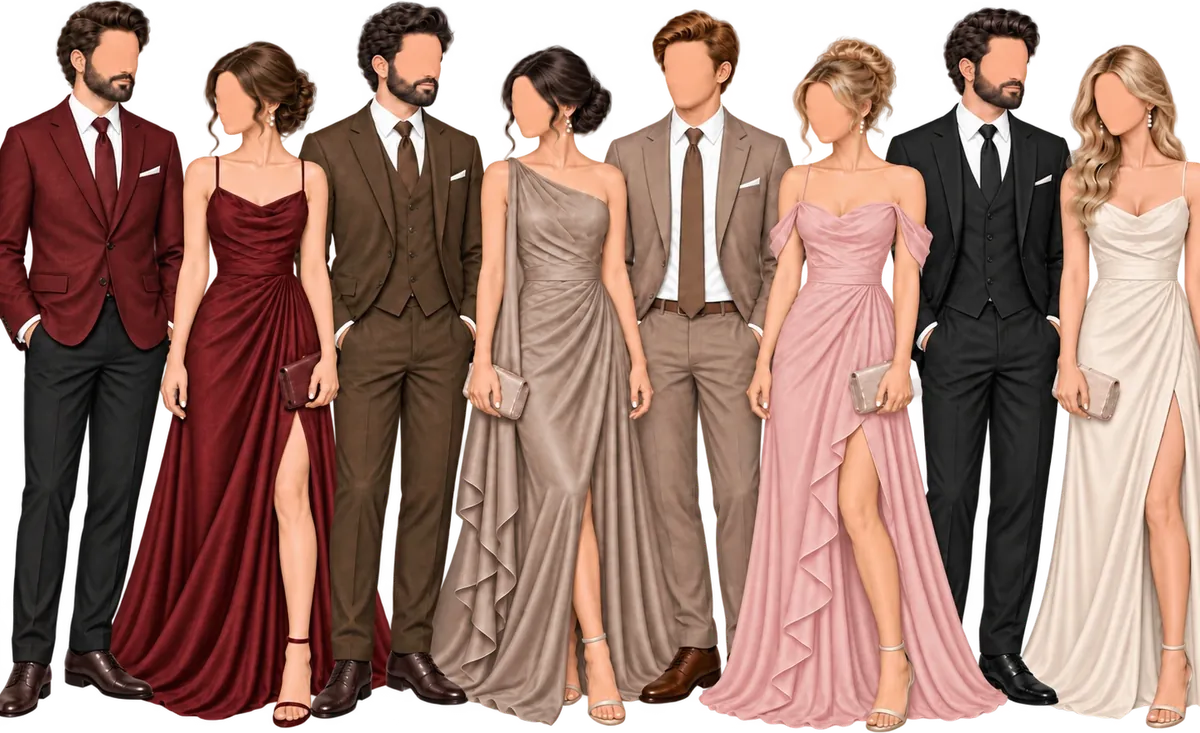
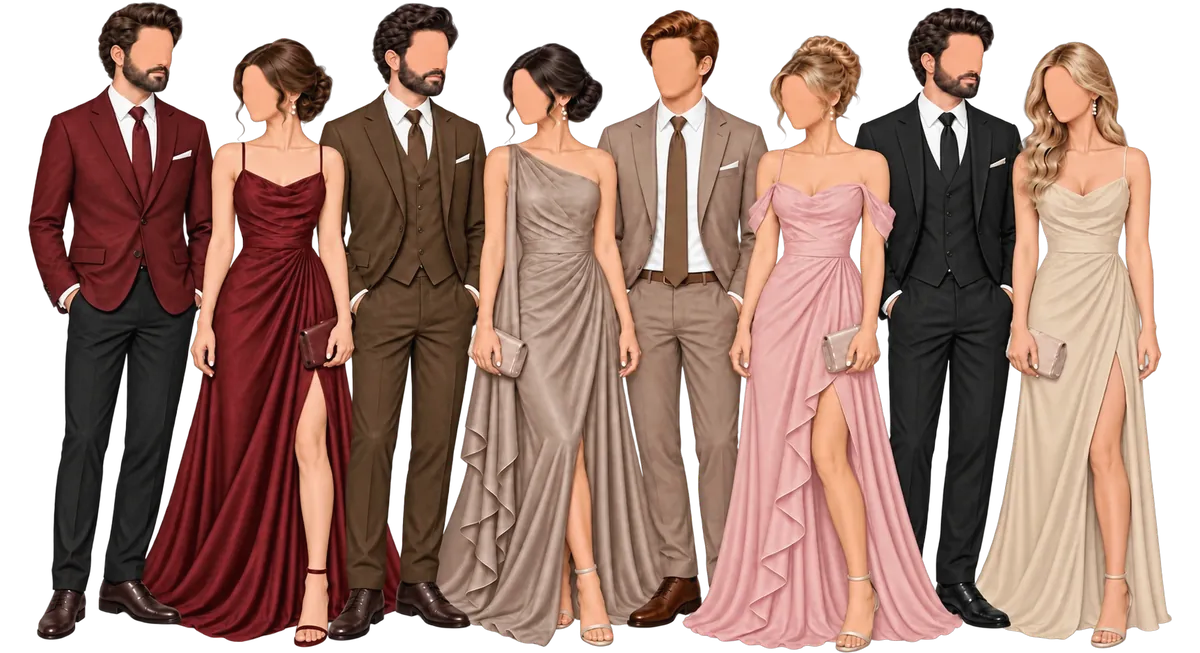
fdfs

diff --git a/src/app/couple/couple.css b/src/app/couple/couple.css
@@ -50,7 +50,11 @@
   position: relative;
   width: min(100%, 400px);
   margin: clamp(46px, 11vw, 60px) auto 0;
-  padding: 9% 9% 13%;
+  /* Asymmetric on purpose: less room on the left, more on the right, so the bigger photo (which sits flush against
+     its own left edge, see .polaroid-a) can start further left - closer to Anna's own side of it - while still
+     landing fully inside this padding, never past the frame drawn by the box-shadow below. The extra room freed up
+     on the right is exactly where the smaller photo sits anyway. */
+  padding: 9% 15% 13% 3%;
   background: linear-gradient(175deg, #fdf7ee 0%, #f6ead9 100%);
   /* a thin double line, like a picture frame's mat, drawn without extra elements */
   box-shadow:
@@ -71,11 +75,10 @@
 .polaroid-a {
   position: relative;
   z-index: 0;
-  width: 84%;
-  /* pushed left past the board's own left padding (not just flush with it): Anna, on the right side of this photo,
-     otherwise sits almost exactly where the smaller photo taped over the corner covers it - shifting the whole
-     photo further left moves her out from under that overlap instead. */
-  margin-inline: -15% auto;
+  width: 78%;
+  /* flush against the board's own (asymmetric, see .board) left padding - the most room this photo can have on that
+     side while still landing fully inside the frame, not past it. */
+  margin-inline: 0 auto;
   padding: 3.6% 3.6% 12%;
   transform: rotate(-2.5deg);
 }
@@ -83,9 +86,13 @@
 .polaroid-b {
   position: absolute;
   z-index: 1;
-  width: 52%;
-  right: -2%;
-  bottom: -9%;
+  /* right/bottom are a real inset, not just past-zero: this photo is TALLER than it is wide, so its own 5deg
+     rotation swings its corners out noticeably further than its unrotated box would suggest - a small inset here
+     still let a rotated corner cross the frame. Checked against the actual rendered (rotated) bounding box in the
+     browser, not just eyeballed from these numbers. */
+  width: 46%;
+  right: 3%;
+  bottom: 8%;
   padding: 3.2% 3.2% 11%;
   transform: rotate(5deg);
 }

diff --git a/src/app/dress-code/dress-code.ts b/src/app/dress-code/dress-code.ts
@@ -9,10 +9,13 @@ interface Shade {
 
 /**
  * The palette. The first four are the user's own circles (their colours were read from the picture they sent); black
- * and cream were added at their request. The cream one is `--paper` (styles.css) - the site's ivory tone, not `--bg`
- * (the page background itself, paler still): at --bg it read as plain white once rendered as a small circle, even
- * with its own highlight cut back below (see .shade:last-child in dress-code.css) - --paper is visibly warmer/darker
- * and reads unmistakably as cream instead. Change colours and names here.
+ * and cream were added at their request. Cream (`#e8cbb1`) is sampled directly from the last woman's actual dress in
+ * source-people.webp (see the bottom of tools/dresscode-assets/make_assets.py) - it is NOT recoloured to match this
+ * swatch (an earlier version did that backwards: picked a colour first, then multiply-blended the real photo towards
+ * it, which just made the dress in the picture look like a different, wrong colour from the swatch next to it). If
+ * source-people.webp is ever replaced, re-run make_assets.py and paste its printed "cream swatch colour" in here.
+ * Site tokens (--bg/--paper) were tried first too and both read as pale grey once rendered this small. Change
+ * colours and names here.
  */
 const SHADES: Shade[] = [
   { name: 'Бордо', color: '#540f08' },
@@ -20,7 +23,7 @@ const SHADES: Shade[] = [
   { name: 'Мокко', color: '#8d6752' },
   { name: 'Пудровый', color: '#cf9f9d' },
   { name: 'Чёрный', color: '#161312' },
-  { name: 'Кремовый', color: 'var(--paper)' },
+  { name: 'Кремовый', color: '#e8cbb1' },
 ];
 
 /**

diff --git a/src/app/dress-code/dress-code.spec.ts b/src/app/dress-code/dress-code.spec.ts
@@ -40,15 +40,14 @@ describe('DressCode', () => {
       { name: 'Мокко', color: '#8d6752' },
       { name: 'Пудровый', color: '#cf9f9d' },
       { name: 'Чёрный', color: '#161312' },
-      { name: 'Кремовый', color: 'var(--paper)' },
+      { name: 'Кремовый', color: '#e8cbb1' },
     ]);
   });
 
-  it('makes the last circle the site\'s ivory tone, not plain white', () => {
+  it('makes the last circle exactly the last woman\'s real dress colour, not an invented one', () => {
     const el: HTMLElement = create().nativeElement;
     const last = [...el.querySelectorAll<HTMLElement>('.dot')].pop()!;
-    // --paper in src/styles.css
-    expect(last.style.getPropertyValue('--c')).toBe('var(--paper)');
+    expect(last.style.getPropertyValue('--c')).toBe('#e8cbb1');
   });
 
   it('names the palette in words for screen readers, and hides the circles themselves', () => {

diff --git a/src/app/dress-code/dress-code.html b/src/app/dress-code/dress-code.html
@@ -19,8 +19,8 @@
         class="crowd"
         src="media/dress-people.webp"
         width="1200"
-        height="733"
-        alt="Гости в нарядах бордового, шоколадного, цвета мокко, пудрового, чёрного и молочного оттенков"
+        height="653"
+        alt="Гости в нарядах бордового, шоколадного, цвета мокко, пудрового, чёрного и кремового оттенков"
         decoding="async"
         loading="lazy"
       />

diff --git a/tools/dresscode-assets/make_assets.py b/tools/dresscode-assets/make_assets.py
@@ -1,61 +1,44 @@
 """Builds the picture of the dress-code section from the source picture kept beside this script.
 
 Sources:
-  source-people.webp      the guests in the palette's colours (transparent cut-out, 1448x1086)
+  source-people.webp      the guests in the palette's colours (transparent cut-out, 1672x941 - a second version the
+                          user regenerated themselves after the first one turned out to have the end figures' arms
+                          cropped right at its own canvas edge, with no way to recover that from the file alone)
   source-palette.jpg      the user's circles: burgundy, dark brown, mocha, dusty pink (their colours were read from it)
   reference-screenshot.png  the example card the section is modelled on
 
-Writes public/media/dress-people.webp: the figures trimmed to their outline (no empty space above and below),
-the last woman's dress recoloured from white to the site's own cream (see RECOLOUR_TARGET - matches --bg in
-src/styles.css and the "Кремовый" swatch in dress-code.ts, so nothing in the picture reads as plain white), and
-shrunk to 1200 px wide. Prints the size for the width/height attributes in the template.
-The circles of the palette are not pictures: they are drawn in CSS from the colours in dress-code.ts.
+Writes public/media/dress-people.webp: the full figures trimmed to their outline (nothing cropped away - see
+EDGE_PAD below for why there is still a transparent margin left and right of them), at their own real colours -
+the last woman's dress is NOT recoloured (an earlier version of this script multiply-blended it towards an assumed
+"cream" target, which just made it look like a different, wrong dress next to the actual photo - the source's own
+colour is already the right one) - and shrunk to 1200 px wide. Prints the size for the width/height attributes in
+the template.
+The circles of the palette are not pictures: they are drawn in CSS from the colours in dress-code.ts - the
+"Кремовый" one is sampled from this same dress (see the bottom of this script), so it always matches it exactly.
 Usage (needs Pillow and numpy): python make_assets.py
 """
 import os
 
 import numpy as np
-from PIL import Image, ImageFilter
+from PIL import Image
 
 HERE = os.path.dirname(os.path.abspath(__file__))
 OUT = os.path.normpath(os.path.join(HERE, '..', '..', 'public', 'media'))
 
-# --bg in src/styles.css - the last woman's dress is recoloured to match it exactly (see recolour_last_dress below).
-RECOLOUR_TARGET = (253, 244, 235)
-# Only the rightmost figure - never touches anyone else in the lineup even if their outfit is also light.
-RECOLOUR_X_FROM = 1240
-
-
-def recolour_last_dress(im):
-    """Multiply-blends the dress fabric (light, low-saturation pixels in the rightmost figure's column) towards
-    RECOLOUR_TARGET, keeping every fold's own shading - only the hue shifts, from white to cream. Skin, hair and
-    the clutch purse are all more saturated and/or darker than the dress, so a simple saturation/value threshold
-    (tuned by hand against this exact source image) already keeps them untouched; the mask is feathered afterwards
-    so the recolour has no hard edge where it meets skin or hair."""
-    arr = np.array(im).astype(float)
-    h, w = arr.shape[:2]
-    region = np.zeros((h, w), dtype=bool)
-    region[:, RECOLOUR_X_FROM:] = True
-
-    alpha, mx, mn = arr[..., 3], arr[..., :3].max(axis=-1), arr[..., :3].min(axis=-1)
-    sat = np.where(mx > 0, (mx - mn) / np.maximum(mx, 1), 0)
-    val = mx / 255
-    raw_mask = (sat < 0.16) & (val > 0.55) & (alpha > 10) & region
-
-    mask = np.array(Image.fromarray((raw_mask * 255).astype(np.uint8)).filter(ImageFilter.GaussianBlur(1.2)))
-    mask = (mask / 255.0)[..., None]
-
-    target = np.array(RECOLOUR_TARGET, dtype=float) / 255.0
-    recoloured = arr[..., :3] * target
-    arr[..., :3] = arr[..., :3] * (1 - mask) + recoloured * mask
-    return Image.fromarray(arr.astype(np.uint8), 'RGBA')
-
+# The source's tight alpha crop lands exactly on the leftmost man's jacket corner and the rightmost woman's dress
+# fabric - both edges of the printed guest lineup sit precisely on those pixels with nothing beyond them (the source
+# canvas itself is exactly as wide as its content, x 0 to 1447 of 1448). Trimming any further in than that would
+# throw away real, already-visible content - the whole figure must stay. EDGE_PAD only adds transparent space AROUND
+# the full, untouched crop, so the picture does not touch its own canvas edge, let alone the screen's.
+EDGE_PAD = 40
 
 im = Image.open(os.path.join(HERE, 'source-people.webp')).convert('RGBA')
-im = recolour_last_dress(im)
 alpha = np.array(im.split()[3])
 ys, xs = np.nonzero(alpha > 10)
 im = im.crop((xs.min(), ys.min(), xs.max() + 1, ys.max() + 1))
+padded = Image.new('RGBA', (im.width + 2 * EDGE_PAD, im.height), (0, 0, 0, 0))
+padded.paste(im, (EDGE_PAD, 0), im)
+im = padded
 im = im.resize((1200, round(im.height * 1200 / im.width)), Image.LANCZOS)
 path = os.path.join(OUT, 'dress-people.webp')
 im.save(path, 'WEBP', quality=80, alpha_quality=100, method=6)
@@ -67,3 +50,10 @@ h = circles.shape[0]
 for cx in (85, 250, 415, 580):
     patch = circles[h // 2 - 12:h // 2 + 12, cx - 12:cx + 12].reshape(-1, 3)
     print('circle colour', '#%02x%02x%02x' % tuple(int(v) for v in np.median(patch, axis=0)))
+
+# the "Кремовый" circle's colour: sampled straight from the last woman's dress (a flat, well-lit patch on the main
+# skirt panel, in the ORIGINAL source-people.webp's own coordinates, before this script's crop/pad/resize move
+# everything around) - paste this into SHADES in dress-code.ts whenever source-people.webp is replaced.
+dress_src = np.array(Image.open(os.path.join(HERE, 'source-people.webp')).convert('RGB')).astype(int)
+dress_patch = dress_src[510:525, 1590:1605].reshape(-1, 3)
+print('dress (cream swatch) colour', '#%02x%02x%02x' % tuple(int(v) for v in np.median(dress_patch, axis=0)))
